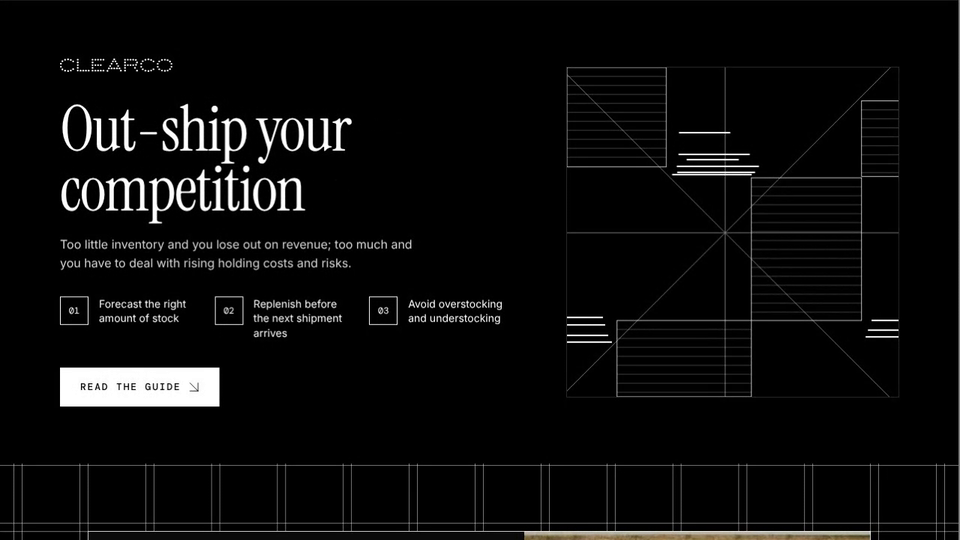
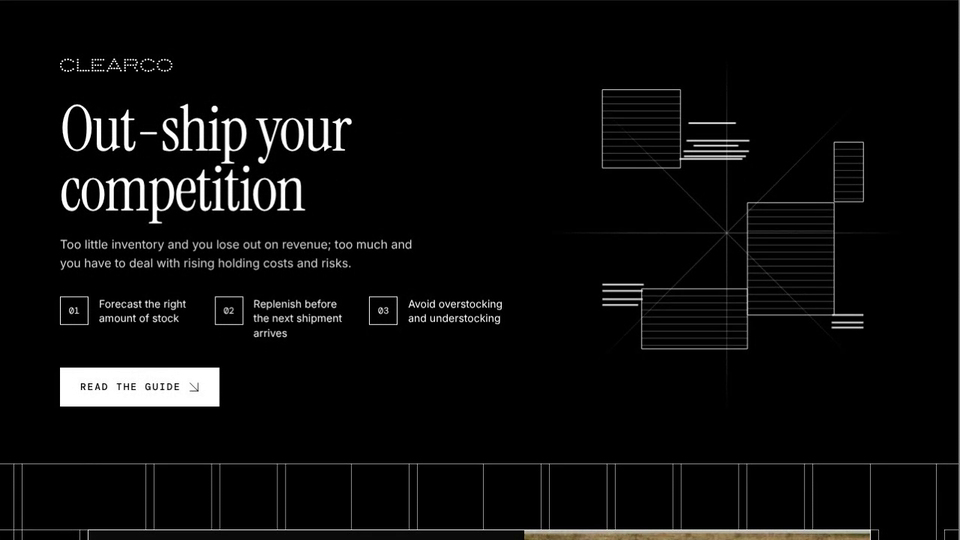
Clearco Logistics Guide: unboxed hero visual with stack animation; quote grid snapped to whole rows with random line removal
- Hero visual: no frame; rays fade out; left blocks and lines float higher, right ones lower; the marked line groups use the banner's stack-float animation (up and back down, lines rippling in sequence)
- Quote grid: top and bottom padding are whole grid rows so the section starts and ends on a horizontal line; lines at 95% opacity; 25% of line runs and 10% of horizontal lines removed at random (top and bottom lines always kept)
- Re-record clip

Claude-Session: https://claude.ai/code/session_01AHeBdwjGFXBCupAH8deQwB

diff --git a/clearco-logistics-guide/index.html b/clearco-logistics-guide/index.html
@@ -56,16 +56,17 @@ section{padding-block:clamp(18px,2.5vw,32px)}
 .points{list-style:none;padding:0;display:grid;grid-template-columns:repeat(3,1fr);gap:20px;margin:0 0 36px}
 .points li{display:flex;gap:14px;align-items:flex-start;font-size:14px;line-height:1.4}
 .points i{flex:none;width:38px;height:38px;border:1px solid #fff;display:grid;place-items:center;font:400 12px/1 var(--mono);font-style:normal}
-.vis{position:relative;width:min(520px,100%);margin:0 auto;box-shadow:0 0 0 1px #2a2a2a}
-.vis svg{width:100%;height:auto;display:block}
-/* the parallel lines: each slides or breathes in length, one after another */
-.vl{position:absolute;height:2px;margin-top:-1px;background:#fff;animation:vl 6s ease-in-out infinite alternate}
-.vl.a{transform-origin:50% 50%;animation-name:vla}
-.vl.b{transform-origin:0 50%}
-.vl.c{transform-origin:100% 50%}
-@keyframes vl{from{transform:scaleX(.5)}to{transform:scaleX(1)}}
-@keyframes vla{from{transform:translateX(-9%) scaleX(.78)}to{transform:translateX(9%) scaleX(1)}}
-@media (prefers-reduced-motion:reduce){.vl{animation:none}}
+.vis{width:min(560px,100%);margin:0 auto}
+.vis svg{width:100%;height:auto;display:block;overflow:visible}
+.vis .blk rect{opacity:.9}
+.vis .blk path{opacity:.3}
+.vis .vl,.vis .blk *{vector-effect:non-scaling-stroke}
+/* the same motion as the banner stacks: each stack floats up and back down, its lines setting off one after another */
+.vis .vl{animation:hfloat var(--T) ease-in-out infinite;animation-delay:calc(var(--o) * 1s + var(--k) * .06s)}
+.vis .st{--T:9s;--o:0}
+.vis .st .vl{--T:inherit}
+@keyframes hfloat{0%,62%,100%{transform:translateY(0)}32%{transform:translateY(var(--d))}}
+@media (prefers-reduced-motion:reduce){.vis .vl{animation:none}}
 @media (max-width:900px){.points{grid-template-columns:1fr}}
 @media (max-width:820px){.hero .wrap{grid-template-columns:1fr}.vis{width:min(360px,100%)}}
 
@@ -74,7 +75,7 @@ section{padding-block:clamp(18px,2.5vw,32px)}
 .gridsec>.wrap{position:relative;z-index:1}
 .gridbg{position:absolute;inset:0;width:100%;height:100%;display:block;z-index:0}
 #stmt{padding-block:clamp(48px,7vw,96px)}
-#stmt .statement{outline:.5px solid rgba(255,255,255,.8);outline-offset:-.5px}
+#stmt .statement{outline:.5px solid rgba(255,255,255,.95);outline-offset:-.5px}
 
 /* ---------- statement card (the 7shifts quote card) ---------- */
 .statement{display:grid;grid-template-columns:1.15fr 1fr;gap:clamp(24px,4vw,56px);align-items:center;padding:0;overflow:hidden}
@@ -209,7 +210,7 @@ footer .sign{margin-top:28px;color:#fff;font-size:14px}
     </ul>
     <a class="btn light" href="https://www.clear.co/blog/navigating-inventory-logistics-a-resource-for-founders">Read the guide <svg class="arr" viewBox="0 0 24 24" width="14" height="14" fill="none" stroke="currentColor" stroke-width="1.5" stroke-linecap="square" aria-hidden="true"><path d="M3 3 21 21M21 3v18M3 21h18"/></svg></a>
     </div>
-    <div class="vis"><svg viewBox="0 0 518 514" width="518" height="514" role="img" aria-label="Abstract linework: outlined blocks and thin lines radiating from a centre point on black, with parallel white lines that slide in and out"><g fill="none" stroke="#fff" vector-effect="non-scaling-stroke" stroke-width="1"><path d="M0 258H518M247 0V514M0 11 503 514M0 505 505 0" opacity=".5" vector-effect="non-scaling-stroke"/><path d="M0 14H155M0 28H155M0 42H155M0 56H155M0 70H155M0 84H155M0 98H155M0 112H155M0 126H155M0 140H155M288 186H460M288 200H460M288 214H460M288 228H460M288 242H460M288 256H460M288 270H460M288 284H460M288 298H460M288 312H460M288 326H460M288 340H460M288 354H460M288 368H460M288 382H460M460 66H518M460 80H518M460 94H518M460 108H518M460 122H518M460 136H518M460 150H518M460 164H518M78 409H288M78 423H288M78 437H288M78 451H288M78 465H288M78 479H288M78 493H288M78 507H288" opacity=".26" vector-effect="non-scaling-stroke"/><g opacity=".9"><rect x="0" y="0" width="155" height="155"/><rect x="288" y="172" width="172" height="223"/><rect x="460" y="52" width="58" height="118"/><rect x="78" y="395" width="210" height="119"/></g></g></svg><i class="vl a" style="left:33.01%;width:18.15%;top:19.65%;animation-duration:5.6s;animation-delay:-0.0s"></i><i class="vl a" style="left:32.24%;width:24.13%;top:26.26%;animation-duration:6.4s;animation-delay:-0.9s"></i><i class="vl a" style="left:34.94%;width:17.18%;top:28.02%;animation-duration:7.2s;animation-delay:-1.8s"></i><i class="vl a" style="left:31.08%;width:25.10%;top:29.96%;animation-duration:5.9s;animation-delay:-2.7s"></i><i class="vl a" style="left:31.27%;width:23.75%;top:31.71%;animation-duration:6.8s;animation-delay:-3.6s"></i><i class="vl a" style="left:29.54%;width:24.13%;top:32.49%;animation-duration:7.6s;animation-delay:-4.5s"></i><i class="vl b" style="left:0.00%;width:15.83%;top:75.88%;animation-duration:5.6s;animation-delay:-0.0s"></i><i class="vl b" style="left:0.00%;width:15.44%;top:78.21%;animation-duration:6.4s;animation-delay:-0.9s"></i><i class="vl b" style="left:0.00%;width:15.44%;top:81.32%;animation-duration:7.2s;animation-delay:-1.8s"></i><i class="vl b" style="left:0.00%;width:13.71%;top:83.46%;animation-duration:5.9s;animation-delay:-2.7s"></i><i class="vl c" style="left:88.03%;width:11.97%;top:76.85%;animation-duration:5.6s;animation-delay:-0.0s"></i><i class="vl c" style="left:87.84%;width:12.16%;top:79.77%;animation-duration:6.4s;animation-delay:-0.9s"></i><i class="vl c" style="left:87.84%;width:12.16%;top:81.71%;animation-duration:7.2s;animation-delay:-1.8s"></i></div>
+    <div class="vis"><svg viewBox="-70 -70 658 654" width="658" height="654" role="img" aria-label="Abstract linework: outlined blocks and thin lines radiating from a centre point on black, the left side floating higher than the right, with stacks of parallel white lines that float up and down"><defs><linearGradient id="r0" gradientUnits="userSpaceOnUse" x1="247" y1="258" x2="607.0" y2="258.0"><stop offset="0" stop-color="#fff" stop-opacity=".55"/><stop offset=".5" stop-color="#fff" stop-opacity=".45"/><stop offset="1" stop-color="#fff" stop-opacity="0"/></linearGradient><linearGradient id="r1" gradientUnits="userSpaceOnUse" x1="247" y1="258" x2="501.6" y2="512.6"><stop offset="0" stop-color="#fff" stop-opacity=".55"/><stop offset=".5" stop-color="#fff" stop-opacity=".45"/><stop offset="1" stop-color="#fff" stop-opacity="0"/></linearGradient><linearGradient id="r2" gradientUnits="userSpaceOnUse" x1="247" y1="258" x2="247.0" y2="618.0"><stop offset="0" stop-color="#fff" stop-opacity=".55"/><stop offset=".5" stop-color="#fff" stop-opacity=".45"/><stop offset="1" stop-color="#fff" stop-opacity="0"/></linearGradient><linearGradient id="r3" gradientUnits="userSpaceOnUse" x1="247" y1="258" x2="-7.6" y2="512.6"><stop offset="0" stop-color="#fff" stop-opacity=".55"/><stop offset=".5" stop-color="#fff" stop-opacity=".45"/><stop offset="1" stop-color="#fff" stop-opacity="0"/></linearGradient><linearGradient id="r4" gradientUnits="userSpaceOnUse" x1="247" y1="258" x2="-113.0" y2="258.0"><stop offset="0" stop-color="#fff" stop-opacity=".55"/><stop offset=".5" stop-color="#fff" stop-opacity=".45"/><stop offset="1" stop-color="#fff" stop-opacity="0"/></linearGradient><linearGradient id="r5" gradientUnits="userSpaceOnUse" x1="247" y1="258" x2="-7.6" y2="3.4"><stop offset="0" stop-color="#fff" stop-opacity=".55"/><stop offset=".5" stop-color="#fff" stop-opacity=".45"/><stop offset="1" stop-color="#fff" stop-opacity="0"/></linearGradient><linearGradient id="r6" gradientUnits="userSpaceOnUse" x1="247" y1="258" x2="247.0" y2="-102.0"><stop offset="0" stop-color="#fff" stop-opacity=".55"/><stop offset=".5" stop-color="#fff" stop-opacity=".45"/><stop offset="1" stop-color="#fff" stop-opacity="0"/></linearGradient><linearGradient id="r7" gradientUnits="userSpaceOnUse" x1="247" y1="258" x2="501.6" y2="3.4"><stop offset="0" stop-color="#fff" stop-opacity=".55"/><stop offset=".5" stop-color="#fff" stop-opacity=".45"/><stop offset="1" stop-color="#fff" stop-opacity="0"/></linearGradient></defs><g fill="none" stroke="#fff" stroke-width="1" vector-effect="non-scaling-stroke"><g class="ray"><line x1="247" y1="258" x2="607.0" y2="258.0" stroke="url(#r0)"/><line x1="247" y1="258" x2="501.6" y2="512.6" stroke="url(#r1)"/><line x1="247" y1="258" x2="247.0" y2="618.0" stroke="url(#r2)"/><line x1="247" y1="258" x2="-7.6" y2="512.6" stroke="url(#r3)"/><line x1="247" y1="258" x2="-113.0" y2="258.0" stroke="url(#r4)"/><line x1="247" y1="258" x2="-7.6" y2="3.4" stroke="url(#r5)"/><line x1="247" y1="258" x2="247.0" y2="-102.0" stroke="url(#r6)"/><line x1="247" y1="258" x2="501.6" y2="3.4" stroke="url(#r7)"/></g><g transform="translate(0,-26)" class="blk"><rect x="0" y="0" width="155" height="155"/><path d="M0 14H155M0 28H155M0 42H155M0 56H155M0 70H155M0 84H155M0 98H155M0 112H155M0 126H155M0 140H155" opacity=".3"/><rect x="78" y="395" width="210" height="119"/><path d="M78 409H288M78 423H288M78 437H288M78 451H288M78 465H288M78 479H288M78 493H288M78 507H288" opacity=".3"/></g><g transform="translate(0,26)" class="blk"><rect x="288" y="172" width="172" height="223"/><path d="M288 186H460M288 200H460M288 214H460M288 228H460M288 242H460M288 256H460M288 270H460M288 284H460M288 298H460M288 312H460M288 326H460M288 340H460M288 354H460M288 368H460M288 382H460" opacity=".3"/><rect x="460" y="52" width="58" height="118"/><path d="M460 66H518M460 80H518M460 94H518M460 108H518M460 122H518M460 136H518M460 150H518M460 164H518" opacity=".3"/></g></g><g stroke="#fff" stroke-width="2"><g transform="translate(0,-18)"><g class="st" style="--d:-46px;--T:9.0s;--o:0.0"><line class="vl" x1="171" x2="265" y1="101" y2="101" style="--k:0"/><line class="vl" x1="167" x2="292" y1="135" y2="135" style="--k:1"/><line class="vl" x1="181" x2="270" y1="144" y2="144" style="--k:2"/><line class="vl" x1="161" x2="291" y1="154" y2="154" style="--k:3"/><line class="vl" x1="162" x2="285" y1="163" y2="163" style="--k:4"/><line class="vl" x1="153" x2="278" y1="167" y2="167" style="--k:5"/></g></g><g transform="translate(0,-26)"><g class="st" style="--d:-34px;--T:10.5s;--o:1.6"><line class="vl" x1="0" x2="82" y1="390" y2="390" style="--k:0"/><line class="vl" x1="0" x2="80" y1="402" y2="402" style="--k:1"/><line class="vl" x1="0" x2="80" y1="418" y2="418" style="--k:2"/><line class="vl" x1="0" x2="71" y1="429" y2="429" style="--k:3"/></g></g><g transform="translate(0,26)"><g class="st" style="--d:36px;--T:9.5s;--o:3.1"><line class="vl" x1="456" x2="518" y1="395" y2="395" style="--k:2"/><line class="vl" x1="455" x2="518" y1="410" y2="410" style="--k:1"/><line class="vl" x1="455" x2="518" y1="420" y2="420" style="--k:0"/></g></g></g></svg></div>
   </div>
 </header>
 
@@ -363,6 +364,7 @@ footer .sign{margin-top:28px;color:#fff;font-size:14px}
     sine: function(t){ return -(Math.cos(Math.PI*t) - 1) / 2; }
   };
   var clamp01 = function(v){ return Math.min(1, Math.max(0, v)); };
+  function mulberry32(a){ return function(){ a |= 0; a = a + 0x6D2B79F5 | 0; var t = Math.imul(a ^ a >>> 15, 1 | a); t = t + Math.imul(t ^ t >>> 7, 61 | t) ^ t; return ((t ^ t >>> 14) >>> 0) / 4294967296; }; }
 
   /* A repeating grid of thin black bands with white edge lines. Crosspoints are where a band crosses a band.
      mode "squares": the edge lines run straight through each other (they overlap where they cross). The dark card is snapped to the
@@ -406,6 +408,10 @@ footer .sign{margin-top:28px;color:#fff;font-size:14px}
         var m = Math.max(2, Math.ceil((el.getBoundingClientRect().height + B) / P));
         el.style.minHeight = (m * P - B) + 'px';
       }
+      if (mode === 'squares' && el) {                       // whole rows of padding: the section starts and ends on a horizontal line
+        var want = Math.min(96, Math.max(48, sec.getBoundingClientRect().width * .07));
+        sec.style.paddingTop = sec.style.paddingBottom = (Math.max(1, Math.round(want / P)) * P) + 'px';
+      }
       var r = sec.getBoundingClientRect();
       W = Math.round(r.width); H = Math.round(r.height);
       if (!W || !H) { busy = false; return; }
@@ -425,10 +431,25 @@ footer .sign{margin-top:28px;color:#fff;font-size:14px}
       g.setTransform(dpr, 0, 0, dpr, 0, 0);
       g.fillStyle = '#000'; g.fillRect(0, 0, W, H);
       /* the statement grid uses the finest line the screen can draw (one device pixel) at 80% opacity; the banner keeps its own weight */
-      g.strokeStyle = '#fff'; g.lineWidth = mode === 'squares' ? (dpr >= 2 ? 1 / dpr : .6) : 1; g.globalAlpha = mode === 'squares' ? .8 : .9;
+      g.strokeStyle = '#fff'; g.lineWidth = mode === 'squares' ? (dpr >= 2 ? 1 / dpr : .6) : 1; g.globalAlpha = mode === 'squares' ? .95 : .9;
       g.beginPath();
-      function vline(x){ var xx = (Math.round(x * dpr) + .5) / dpr; g.moveTo(xx, 0); g.lineTo(xx, H); }
-      function hline(y){ var yy = (Math.round(y * dpr) + .5) / dpr; g.moveTo(0, yy); g.lineTo(W, yy); }
+      var rng = mulberry32(1337), ysb = [0], xsb = [0], qq;
+      for (var jj = 0; jj < NR; jj++) { qq = py(jj) + B / 2; if (qq > 1 && qq < H - 1) ysb.push(qq); }   // runs break at the cell edges, so a removed run leaves no stubs
+      ysb.push(H);
+      for (var ii = 0; ii < NC; ii++) { qq = px(ii) + B / 2; if (qq > 1 && qq < W - 1) xsb.push(qq); }
+      xsb.push(W);
+      function vline(x){
+        var xx = (Math.round(x * dpr) + .5) / dpr;
+        if (mode !== 'squares') { g.moveTo(xx, 0); g.lineTo(xx, H); return; }
+        for (var k = 0; k < ysb.length - 1; k++) { if (rng() < .25) continue; g.moveTo(xx, ysb[k]); g.lineTo(xx, ysb[k + 1]); }
+      }
+      function hline(y){
+        var yy = (Math.round(y * dpr) + .5) / dpr;
+        if (mode !== 'squares') { g.moveTo(0, yy); g.lineTo(W, yy); return; }
+        var edge = y <= 1 || y >= H - 2;                      // the top and bottom lines are never removed
+        if (!edge && rng() < .10) return;
+        for (var k = 0; k < xsb.length - 1; k++) { if (!edge && rng() < .25) continue; g.moveTo(xsb[k], yy); g.lineTo(xsb[k + 1], yy); }
+      }
       for (var i = -1; i <= NC; i++) if (mode === 'squares') { vline(px(i) - B / 2 - 1); vline(px(i) + B / 2); }
       for (var j = -1; j <= NR; j++) { hline(py(j) - B / 2 - 1); hline(py(j) + B / 2); }
       g.stroke();
